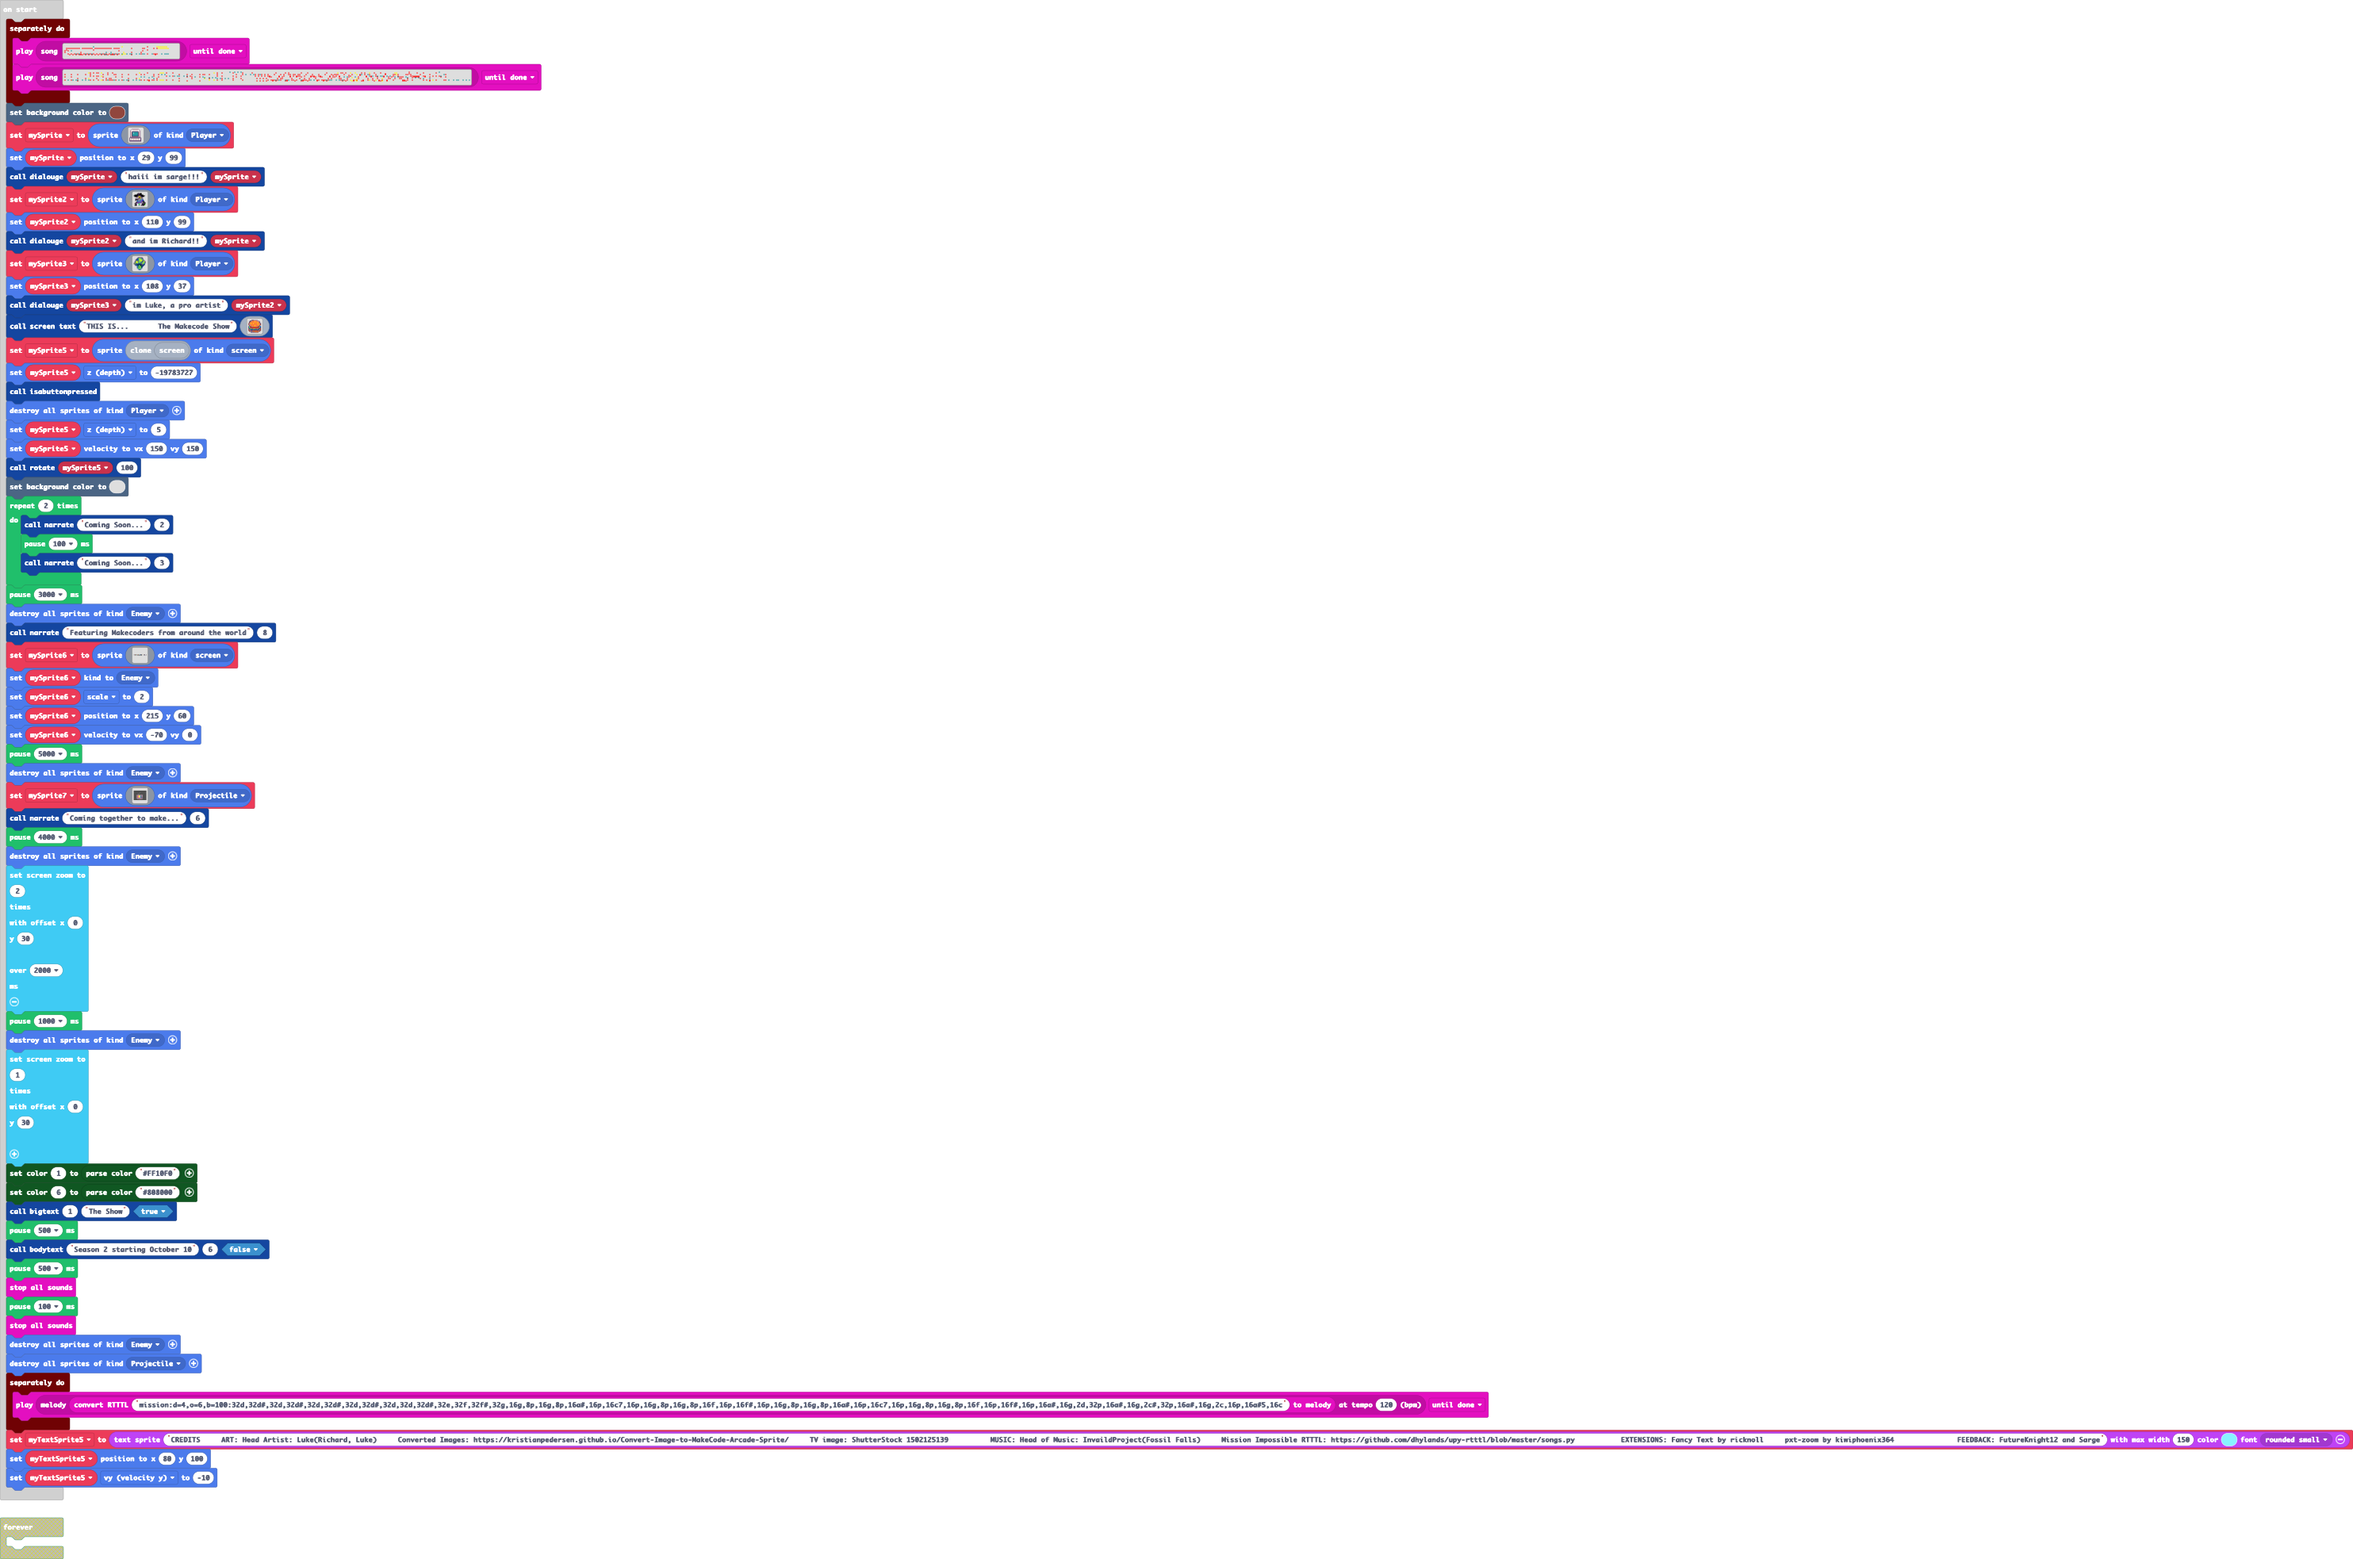
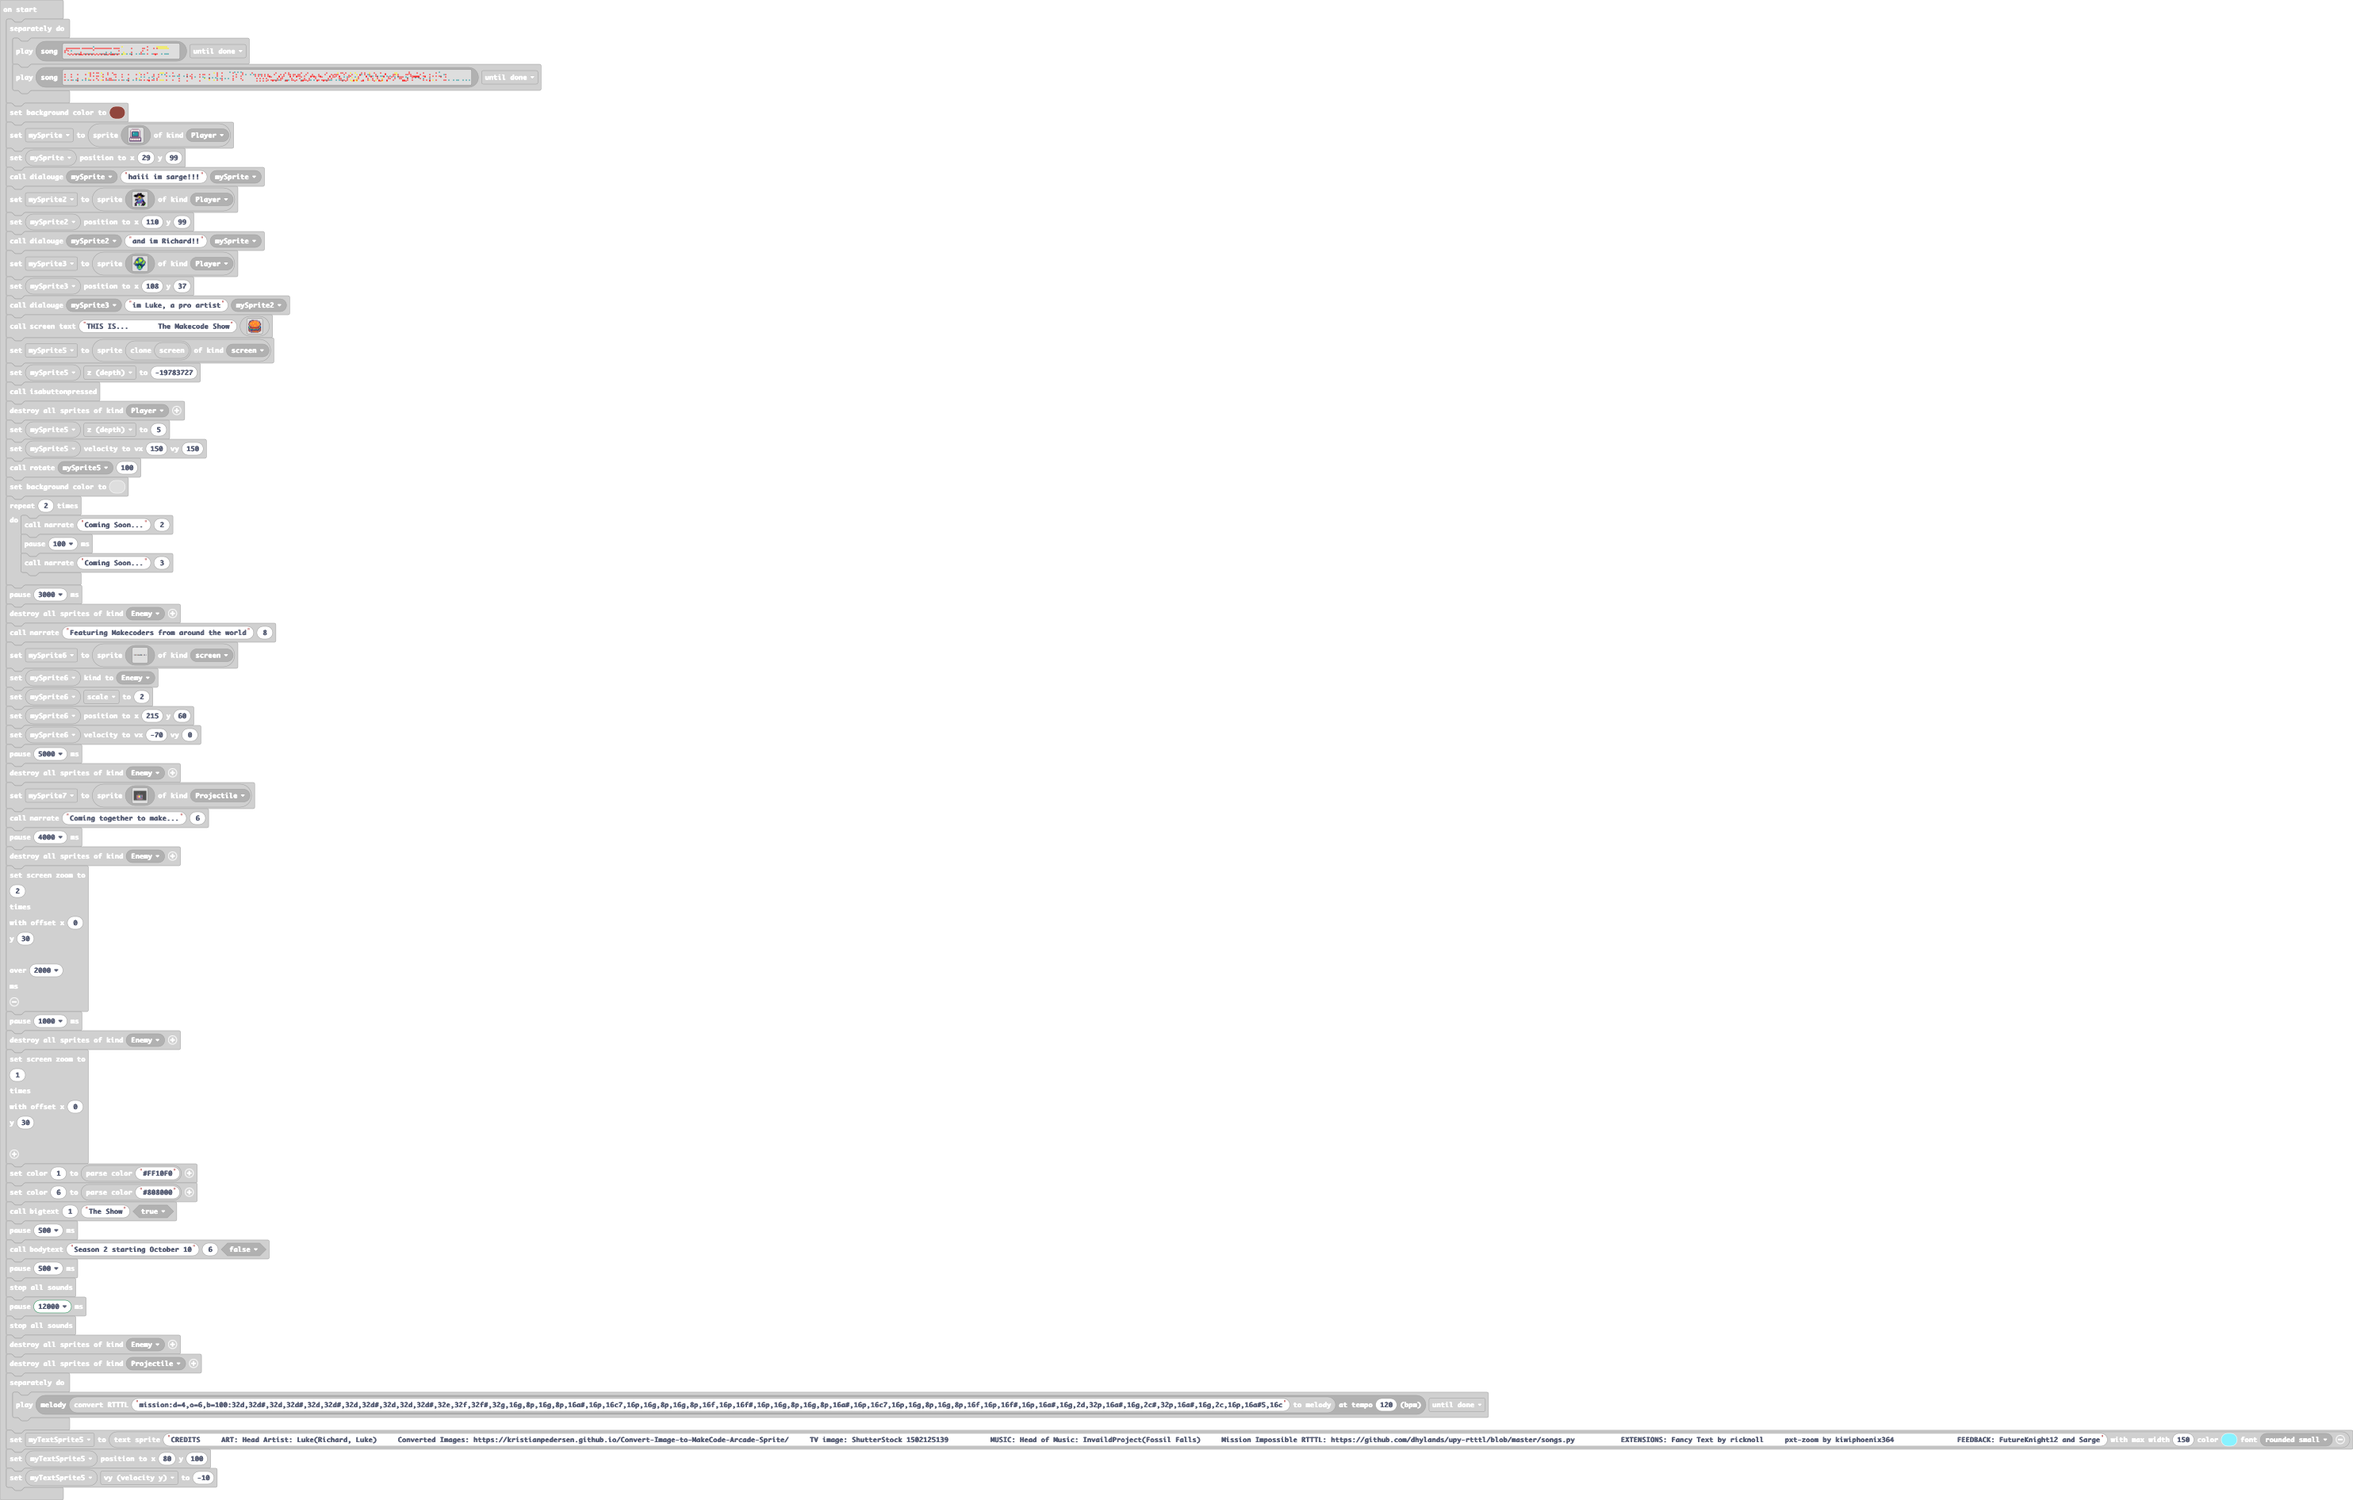
Update main.blocks, main.ts

Changed region(s): [[0.0, 0.0, 1.0, 1.0]]

diff --git a/main.ts b/main.ts
@@ -406,7 +406,7 @@ pause(500)
 bodytext("Season 2 starting October 10", 6, false)
 pause(500)
 music.stopAllSounds()
-pause(100)
+pause(12000)
 music.stopAllSounds()
 sprites.destroyAllSpritesOfKind(SpriteKind.Enemy)
 sprites.destroyAllSpritesOfKind(SpriteKind.Projectile)
